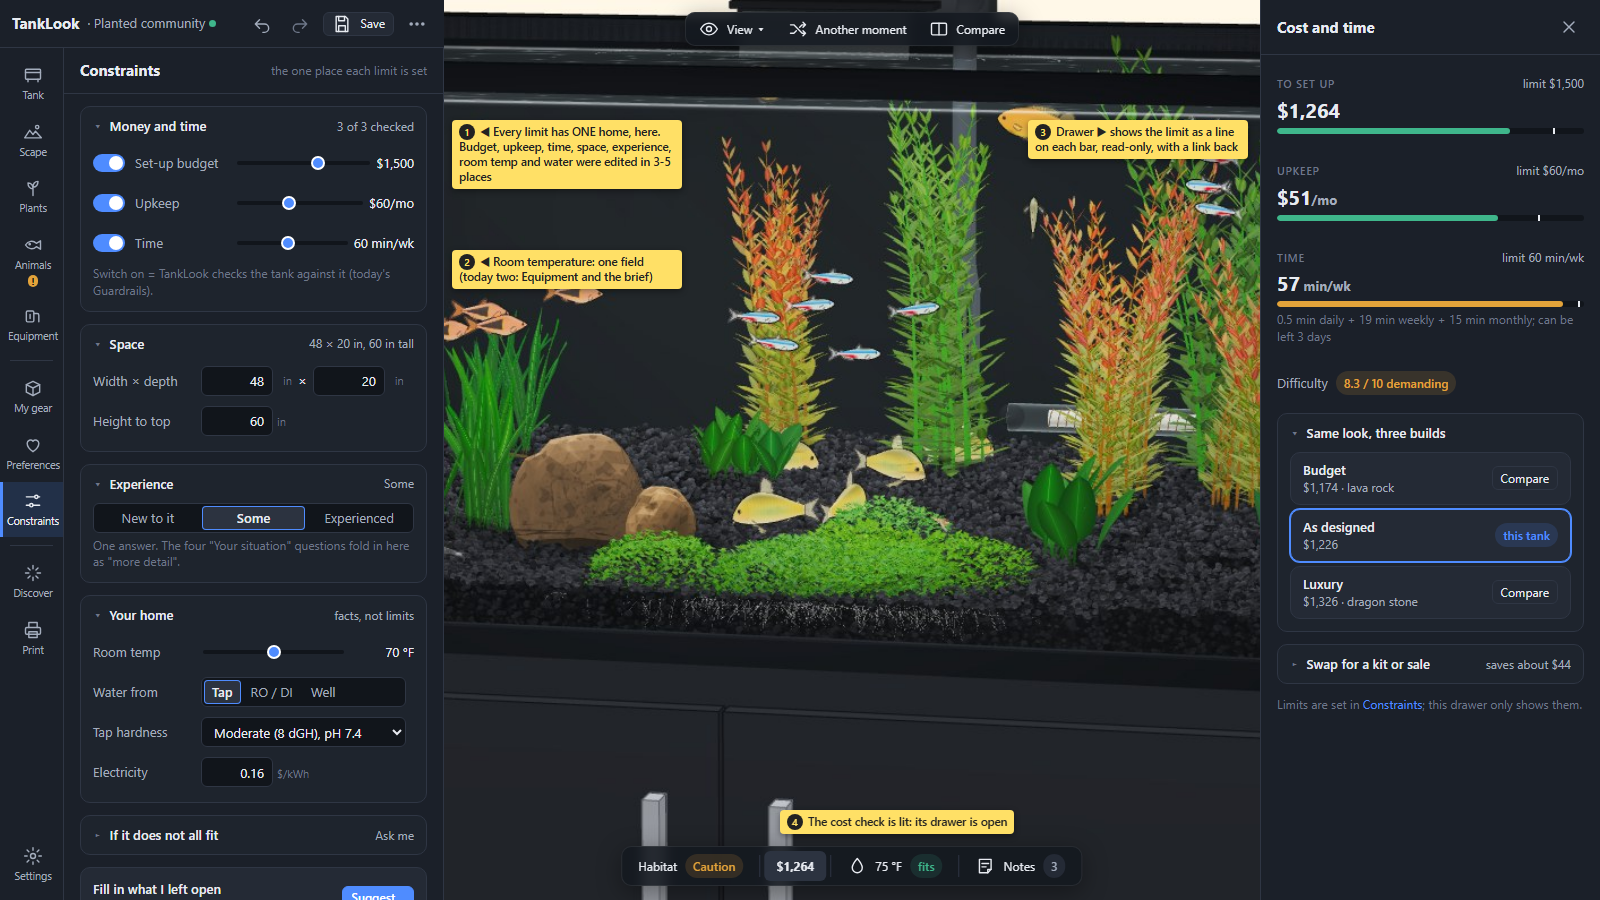
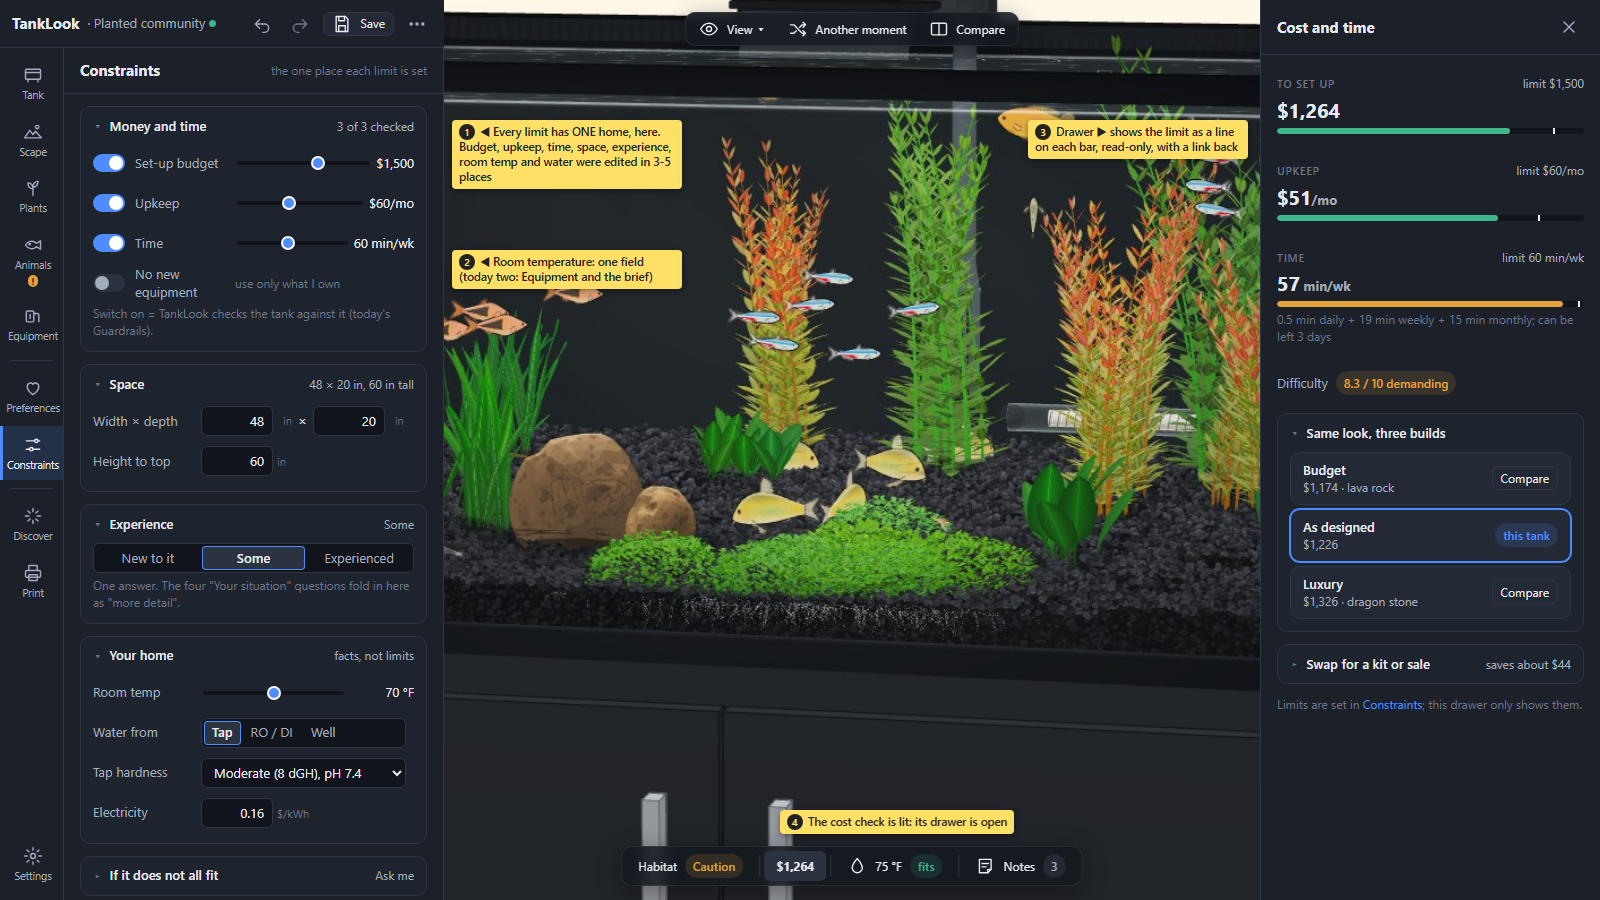
UI2: own / buy / lock gear model per Nathan 11-13 (no My gear tab)
Equipment gets a sub-menu per category with I own and Buy groups and an independent
'Use this one for sure' lock; Tank / Stand the same. No new equipment moves to Constraints;
Print gets an Already owned group. Doc 2/3/6/7/9 updated (P8 gear model step), rail is
9 sections + Settings, new shot 05-equipment-heater.png, 01/03/04 re-taken.

diff --git a/research/design/ui2/05-equipment-heater.html b/research/design/ui2/05-equipment-heater.html
@@ -1,0 +1,56 @@
+<!doctype html>
+<html lang="en"><head><meta charset="utf-8"><title>UI2 mockup: Equipment > Heater, own / buy / lock</title>
+<link rel="stylesheet" href="tokens.css">
+<style>
+  .app { display: grid; height: 100vh; grid-template-columns: var(--rail-w) 420px 1fr; grid-template-rows: var(--header-h) 1fr; grid-template-areas: "head head view" "rail panel view"; }
+  .app > header { grid-area: head; } .app > .rail { grid-area: rail; } .app > .panel { grid-area: panel; } .app > .viewer { grid-area: view; }
+  .cats { display: flex; gap: 6px; flex-wrap: wrap; }
+  .gear { display: grid; grid-template-columns: 44px minmax(0,1fr) auto; gap: var(--s2) var(--s3); align-items: center; padding: var(--s2) var(--s3); }
+  .gear .thumb { width: 44px; height: 36px; display: grid; place-items: center; color: #3a4150; }
+  .gear .acts { display: flex; gap: 4px; align-items: center; }
+  .lockbtn { height: var(--ctl-h-sm); padding: 0 var(--s2); border-radius: var(--r-pill); border: 1px solid var(--line); background: transparent; color: var(--text-3); display: inline-flex; align-items: center; gap: 4px; font-size: var(--fs-sm); }
+  .lockbtn .i { width: 14px; height: 14px; }
+  .lockbtn.on { background: var(--accent); border-color: var(--accent); color: #fff; font-weight: 600; }
+  .gh .n { color: var(--text-3); font-weight: 400; }
+</style></head>
+<body>
+<script src="icons.js"></script><script src="shell.js"></script>
+<div class="app" id="app"></div>
+<script>
+const lock = on => `<button class="lockbtn ${on ? 'on' : ''}" title="Use this one for sure">${I('lock')}${on ? 'For sure' : ''}</button>`;
+const g = (name, meta, o = {}) => `<div class="card gear ${o.inUse ? 'sel' : ''}">
+  <div class="thumb">${I('gear')}</div>
+  <div><div class="t">${name}</div><div class="m">${meta}</div>
+    <div style="display:flex;gap:4px;margin-top:4px">${o.owned ? '<span class="pill ok">Owned &middot; $0</span>' : ''}${o.inUse ? '<span class="pill accent">In use</span>' : ''}${o.warn ? `<span class="pill warn">${o.warn}</span>` : ''}</div></div>
+  <div class="acts">${o.inUse ? '' : '<button class="btn sm">Use</button>'}${lock(o.lock)}</div></div>`;
+document.getElementById('app').innerHTML = apphead() + rail('gear', {animals: '!'}) + `
+<section class="panel">
+  <div class="sec-head"><h2>Equipment</h2><select class="select" style="height:26px"><option>Mid planted</option></select><button class="btn sm ghost">${I('ideas')} Ideas</button></div>
+  <div class="sec-body">
+    <div class="cats"><span class="chip">Filter</span><span class="chip on">Heater</span><span class="chip">Light</span><span class="chip">CO2</span><span class="chip">Air</span><span class="chip">Ferts</span><span class="chip">More &#9662;</span></div>
+    <div class="hint">40 gal at 75 &deg;F, room 70 &deg;F (<span class="link">Constraints</span>): needs about 100 W.</div>
+    <div class="group open"><div class="gh">I own <span class="n">2</span><span class="sum">$0, the planner prefers these when they fit</span></div><div class="gb">
+      ${g('Eheim Jager 100 W', 'adjustable &middot; 11 in', {owned: 1, inUse: 1, lock: 1})}
+      ${g('Aqueon Pro 50 W', 'preset 78 &deg;F &middot; 9 in', {owned: 1, warn: 'too small for 40 gal'})}
+      <button class="btn sm ghost" style="justify-self:start">${I('plus')} Add one I own</button>
+    </div></div>
+    <div class="group open"><div class="gh">Buy <span class="n">14</span><span class="sum">fits 40 gal &middot; price &middot; power</span></div><div class="gb">
+      ${g('Fluval M 100 W', '$38 &middot; ~$1.20/mo power')}
+      ${g('Cobalt Neo-Therm 100 W', '$45 &middot; flat, shatterproof')}
+      ${g('Hygger titanium 100 W', '$26 &middot; external controller')}
+      <button class="btn sm ghost" style="justify-self:start">Show all 14</button>
+    </div></div>
+  </div>
+</section>
+<main class="viewer">
+  <div class="ov" style="top:12px;left:50%;transform:translateX(-50%)">${toolbar()}</div>
+  <div class="ov" style="bottom:14px;left:50%;transform:translateX(-50%)">${checkbar({full: 1})}</div>
+</main>`;
+</script>
+<div style="position:absolute;inset:0;pointer-events:none">
+  <div class="note" data-n="1" style="top:100px;left:492px;max-width:240px">&#9664; One sub-menu per category (Tank and Stand work the same way in the Tank section)</div>
+  <div class="note" data-n="2" style="top:200px;left:492px;max-width:240px">&#9664; I own: what you have ($0). Owning does not mean the plan uses it</div>
+  <div class="note" data-n="3" style="top:290px;left:492px;max-width:240px">&#9664; "For sure" lock, on any item, owned or not: Discover / Suggest must use it. Separate from "In use"</div>
+  <div class="note" data-n="4" style="top:470px;left:492px;max-width:240px">&#9664; Buy: catalogue products. Hidden when Constraints "No new equipment" is on</div>
+</div>
+</body></html>

diff --git a/research/design/ui2/04-constraints-and-cost.html b/research/design/ui2/04-constraints-and-cost.html
@@ -23,6 +23,7 @@ document.getElementById('app').innerHTML = apphead() + rail('limits', {animals: 
       ${lim(1, 'Set-up budget', '<input class="slider" type="range" value="62">', '$1,500')}
       ${lim(1, 'Upkeep', '<input class="slider" type="range" value="40">', '$60/mo')}
       ${lim(1, 'Time', '<input class="slider" type="range" value="45">', '60 min/wk')}
+      <div class="lim"><span class="toggle"></span><span class="lbl">No new equipment</span><span class="hint">use only what I own</span><span></span></div>
       <div class="hint">Switch on = TankLook checks the tank against it (today's Guardrails).</div>
     </div></div>
     <div class="group open"><div class="gh">Space <span class="sum">48 &times; 20 in, 60 in tall</span></div><div class="gb">

diff --git a/research/design/ui2/shell.js b/research/design/ui2/shell.js
@@ -2,7 +2,7 @@
 const I = (n, cls = 'i') => `<svg class="${cls}"><use href="#i-${n}"/></svg>`;
 const RAIL = [
   ['tank', 'Tank'], ['scape', 'Scape'], ['plants', 'Plants'], ['animals', 'Animals'], ['gear', 'Equipment'],
-  '-', ['owned', 'My gear'], ['prefs', 'Preferences'], ['limits', 'Constraints'], '-', ['ideas', 'Discover'], ['print', 'Print'],
+  '-', ['prefs', 'Preferences'], ['limits', 'Constraints'], '-', ['ideas', 'Discover'], ['print', 'Print'],
 ];
 function rail(active, badges = {}) {
   return `<nav class="rail">${RAIL.map(r => r === '-' ? '<div style="height:1px;background:var(--line);margin:6px 10px"></div>' :

diff --git a/research/design/ui2-screen-map.md b/research/design/ui2-screen-map.md
@@ -10,6 +10,7 @@ Design only, no app code. Built from `research/design/ui1-inventory.md` (UI1, bu
 | `research/screens/UI2/02-editor-phone.png` | Same at 390 x 844: tank on top, check strip, Animals as a bottom sheet, tab bar |
 | `research/screens/UI2/03-split-desktop.png` | Compare: two tanks, one shared control cluster over the seam, "Editing A / B / Both" in the panel, each tank its own check bar |
 | `research/screens/UI2/04-constraints-and-cost.png` | Constraints section open (the one home of every limit) with the Cost and time drawer open on the right |
+| `research/screens/UI2/05-equipment-heater.png` | Equipment > Heater: **I own** and **Buy** groups, one item locked "Use this one for sure" (Nathan 11-13) |
 
 ## 1. Who and what for
 
@@ -29,7 +30,7 @@ Ideas (Discover, Suggest) are not a job of their own: they are a faster way to d
 
 ## 2. Screen map
 
-**Summary.** One editor screen, always the same shape: **header** (name, Undo / Redo / Save, file menu) over a **rail** of section icons; one **panel** showing one section at a time; the **viewer** with one shared control cluster at the top middle and one **check bar** at the bottom (Habitat, Cost, Water, Notes); clicking a check opens a **drawer** on the right that pushes the view aside instead of covering the tank. Plus one Start screen, a few dialogs and one Print screen. Today's 8-9 menu sections + ~60 overlays become 10 sections, 4 drawers, 1 Start screen, 4 dialogs, 1 Print screen. Of UI1's 56 rows: 28 KEEP (most moved), 19 MERGE, 4 HIDE, 5 CUT.
+**Summary.** One editor screen, always the same shape: **header** (name, Undo / Redo / Save, file menu) over a **rail** of section icons; one **panel** showing one section at a time; the **viewer** with one shared control cluster at the top middle and one **check bar** at the bottom (Habitat, Cost, Water, Notes); clicking a check opens a **drawer** on the right that pushes the view aside instead of covering the tank. Plus one Start screen, a few dialogs and one Print screen. Today's 8-9 menu sections + ~60 overlays become 9 sections, 4 drawers, 1 Start screen, 4 dialogs, 1 Print screen. Of UI1's 56 rows: 27 KEEP (most moved), 20 MERGE, 4 HIDE, 5 CUT.
 
 ### 2a. The new screens
 
@@ -38,23 +39,22 @@ Ideas (Discover, Suggest) are not a job of their own: they are a faster way to d
 | **Start** | J1 | first visit; header ... > New | four doors: Blank tank (kind, then the tank picker in your room), Starters and kits (starters, deals and bundles as tabs), Open saved, From an animal I want |
 | **Editor** | all | after Start; resume | header + rail + panel + viewer + check bar + drawer |
 | Header | J5 | always (top of the panel column) | TankLook, project name (click to rename), saved dot, Undo, Redo, Save, `...` = New / Open / Save as / Share link / Download |
-| Rail | J2 | always, also when the panel is folded | Tank, Scape, Plants, Animals, Equipment / My gear, Preferences, Constraints / Discover, Print / Settings (bottom) |
-| Section **Tank** | J2 | rail | Tank model (picker opens docked in the panel, live in the room), shape and size, Sits on (floor / stand / my own furniture), Top and rim, Glass, Background, **Room** (wall, ceiling, person) |
+| Rail | J2 | always, also when the panel is folded | Tank, Scape, Plants, Animals, Equipment / Preferences, Constraints / Discover, Print / Settings (bottom): 9 sections + Settings |
+| Section **Tank** | J2 | rail | Tank model and Stand (each with **I own** / **Buy** groups and the "Use this one for sure" lock, as in Equipment; the Buy picker opens docked in the panel, live in the room), shape and size, Sits on (floor / stand / my own furniture), Top and rim, Glass, Background, **Room** (wall, ceiling, person) |
 | Section **Scape** | J2 | rail | Substrate (type, blend, brush), Terrain (slopes, corners), Hardscape and Decor library, placed pieces |
 | Section **Plants** | J2 | rail | library (grayed by light), placed plants, growth over time |
 | Section **Animals** | J2 | rail | search, filters ("Fits this tank" on by default in Guided), stocking list with counts, Water look (level, tint) |
-| Section **Equipment** | J2 | rail | preset ladder (Walstad ... high-tech), one row per gear kind (filter, heater, light, CO2, ...), Lighting details, Light map / PAR |
-| Section **My gear** | J2/J3 | rail; "I own one" on any gear row opens it at that item | what you already own (tank, stand, light, heater, ...), "No new equipment" |
+| Section **Equipment** | J2 | rail | preset ladder (Walstad ... high-tech) at the top; then one **sub-menu per category** (Filter, Heater, Light, CO2, Air, UV, ... ; saltwater adds its own). Each category: the item in use now, then two groups, **I own** (your items, add your own, $0) and **Buy** (catalogue products), and on every item an independent **Use this one for sure** lock. Light also holds Lighting details, Light map / PAR |
 | Section **Preferences** | J1/J2 | rail | looks you like (cards, browse looks), don't-want list (R26 split) |
-| Section **Constraints** | J3 | rail; every "limit" line elsewhere links here | Money and time, Space, Experience, Your home (room temp, water, electricity), If it does not all fit, "Fill in what I left open" (Suggest) |
+| Section **Constraints** | J3 | rail; every "limit" line elsewhere links here | Money and time (incl. **No new equipment**: a spending limit), Space, Experience, Your home (room temp, water, electricity), If it does not all fit, "Fill in what I left open" (Suggest) |
 | Section **Discover** | J1/J2 | rail; "Ideas for ..." button in each section header opens it scoped to that section | Finish my setup / fill this section / remix; preview in the viewer; Apply / Keep |
-| Section **Print** | J5 | rail | one page builder with presets: Shopping list, Setup sheet, Full report, Build plan; tick parts; Print / .txt / .csv |
+| Section **Print** | J5 | rail | one page builder with presets: Shopping list, Setup sheet, Full report, Build plan; tick parts; Print / .txt / .csv. The shopping list has an **Already owned** group ($0) apart from what to buy |
 | **Settings** | - | rail bottom | US / Metric, Rules (Guided / Sandbox), Graphics, Help, Scene data (JSON) |
 | Viewer cluster | J2/J4 | always, top middle | View (camera, show, viewpoint map, export PNG), Another moment, Compare / Views linked / End compare |
 | Check bar | J3 | always, bottom of each view | Habitat (verdict pill), Cost ($ set-up, $/mo, min/wk), Water (deg F, fits), Notes (count) |
 | Drawers | J3 | click a check; click an item in the tank | **Habitat check**, **Cost and time**, **Water**, **Notes**, **Selection** (selected animal / piece: numbers, sex, copies, delete). One open at a time. |
 | Dialogs | J1/J5 | as needed | Save as / Share, Replace this project?, Guardrail-off list (inside Constraints, not a dialog), Sump size (inside Equipment) |
-| Toasts | J2 | after an edit | price notice (edit lost a sale price, Undo), owned gear no longer fits (link to My gear) |
+| Toasts | J2 | after an edit | price notice (edit lost a sale price, Undo), owned gear no longer fits (link to that Equipment category) |
 
 ### 2b. Where each of today's surfaces goes (every UI1 row)
 
@@ -74,7 +74,7 @@ Ideas (Discover, Suggest) are not a job of their own: they are a faster way to d
 | 12 | Tank sizes / Sump size modal | MERGE | Sump: a row in Equipment; tank: picker #13 |
 | 13 | Choose a tank (docked picker) | KEEP | Tank section, docked in the panel, live preview |
 | 14 | Guardrails dialog (checks off) | MERGE | Constraints: each limit has its own on / off switch |
-| 15 | My equipment dialog | KEEP | becomes the **My gear** section (Nathan 11-05: "a totally separate existing-equipment menu") |
+| 15 | My equipment dialog | MERGE | into the **I own** group of each Equipment category (and Tank / Stand in the Tank section); "No new equipment" moves to Constraints. Nathan 11-13 replaced the 11-05 "separate menu" with this |
 | 16 | Setup sheet | MERGE | Print > Setup sheet preset |
 | 17 | Report | MERGE | Print > Full report preset |
 | 18 | Plan sheet / Build plan sheet | MERGE | Print > Build plan preset |
@@ -90,7 +90,7 @@ Ideas (Discover, Suggest) are not a job of their own: they are a faster way to d
 | 28 | Animals | KEEP | Animals section; selected-animal box moves to the Selection drawer |
 | 29 | Water (under Animals) | KEEP | Animals > Water look; water numbers live in the Water drawer |
 | 30 | Constraints and preferences | KEEP | two sections, Preferences and Constraints (R26) |
-| 31 | Equipment | KEEP | Equipment section; "Open My equipment" becomes the My gear rail door |
+| 31 | Equipment | KEEP | Equipment section with a sub-menu per category; each category's "I own one" tab becomes its **I own** group |
 | 32 | Lighting | MERGE | Equipment > Light row and its details; second "Total Power" control CUT (same field shown twice) |
 | 33 | Report section | MERGE | Print section |
 | 34 | Discover / Keep in section headers | MERGE | one "Ideas for ..." button per section header; Keep / lock stays on the item |
@@ -117,7 +117,7 @@ Ideas (Discover, Suggest) are not a job of their own: they are a faster way to d
 | 55 | Animal-first stocking (dormant) | HIDE | decision 4: Start > "From an animal I want" |
 | 56 | Sandbox flags bar | CUT | flag already off; rules switch is in Settings |
 
-Count: KEEP 28, MERGE 19, HIDE 4, CUT 5 = 56. The three dormant HIDE rows (51, 52, 55) get a door only if Nathan says yes (decision 4).
+Count: KEEP 27, MERGE 20, HIDE 4, CUT 5 = 56. The three dormant HIDE rows (51, 52, 55) get a door only if Nathan says yes (decision 4).
 
 ## 3. One home per setting
 
@@ -134,7 +134,9 @@ Rule (Nathan 2026-11-05, kept): **a shortcut may open the home; it may not hold 
 | Electricity $/kWh | cost panel | Constraints > Your home | Cost drawer |
 | Limit on / off (guardrails) | cost Guardrails, `#guardDlg` | Constraints: a switch on each limit | Cost drawer shows "not checked" |
 | Kind (fresh / salt) | New cards, Tank buttons, Suggest radios, Water link (4) | Start (first step) and Tank section (same field; Start is the first visit to it) | Water drawer, Animals filter |
-| Owned gear | 7 doors | My gear section | Equipment rows: "Owned" pill; "I own one" opens My gear at that item. "No new equipment" lives only in My gear |
+| Owned gear | 7 doors | the **I own** group of each category (Equipment; Tank / Stand in Tank) | Print "Already owned" group; Cost drawer counts it $0. Owning does not mean the plan uses it |
+| Use this one for sure (lock) | Discover Keep / lock, owned flags (mixed) | one lock per item, on the item's row, owned or not | the row shows it (lock icon); Discover / Suggest / the generator must use a locked item; an owned unlocked item is a free option they prefer when it fits |
+| No new equipment | Constraints `#cnNoNew`, My equipment `#ownNoNew` (2) | Constraints > Money and time | Equipment shows a note on the Buy groups while it is on |
 | Light power | two sliders 8 rows apart | Equipment > Light | - |
 | Look / style direction | quick prefs (2), hidden Style select | Preferences | Discover uses it; the scene's own materials stay hand edits in their sections (a different thing: what is built, not what you like) |
 | Tank size | picker, L / H / D, Suggest space, Set my space | Tank section (picker + size rows) | header name, Print |
@@ -186,13 +188,13 @@ One expand / collapse glyph (`▸` / `▾`) everywhere; one icon set (24 px stro
 
 **Tablet (700-1099 px):** rail + viewer; the panel opens over the viewer's left side as a sheet; drawer opens over the right.
 
-**Phone (< 700 px):** header (icons only), viewer on top (about 35 % height), a check strip under it (scrolls sideways), the open section as a bottom sheet (drag between half and full), tab bar: Tank, Scape, Plants, Animals, More (More = Equipment, My gear, Preferences, Constraints, Discover, Print, Settings). Drawers open as full sheets. Compare on phone: stacked A over B, one tank's check strip at a time.
+**Phone (< 700 px):** header (icons only), viewer on top (about 35 % height), a check strip under it (scrolls sideways), the open section as a bottom sheet (drag between half and full), tab bar: Tank, Scape, Plants, Animals, More (More = Equipment, Preferences, Constraints, Discover, Print, Settings). Drawers open as full sheets. Compare on phone: stacked A over B, one tank's check strip at a time.
 
 ## 7. Migration order
 
 The new shell lives beside the old one behind `?ui=2` (own `index2.html` entry, own `src/ui2/`, own stylesheet built from the tokens). Both use the same `Store`, `Viewer` and engine. Old shell untouched until the flip.
 
-**P. Pull logic out first (no visible change; each with tests, each a lane):**
+**P. Pull logic out first (no visible change; each with tests, each a lane; P8 added 11-13 for the own / buy / lock model):**
 
 | Step | Out of | Into | Size |
 |---|---|---|---|
@@ -200,6 +202,7 @@ The new shell lives beside the old one behind `?ui=2` (own `index2.html` entry, 
 | P2 Stocking edits and picker fit (`setCount`, `dropSpecies`, `fitsFor` / `animalGate` / `refineFits`, `removeMisfits`, `readout`) | `panels.ts` 771-1106 | `scene/stockEdit.ts` + `ui/logic/animalPicker.ts` | L |
 | P3 Item / plant edits and plant gate | `panels.ts` 1620-1950 | `scene/itemEdit.ts`, `ui/logic/plantGate.ts` | M |
 | P4 Gear choice application and conversions | `techMenu.ts` | `scene/techEdit.ts`; one `units.ts` for every `toF` / `fromUnits` / `fmtHeight` | L |
+| P8 Gear model: per category an owned list (in the brief), the item in use, and a "use for sure" lock per item; Discover / Suggest / generator read the lock (must use) and the owned list (preferred, $0). Folds `ownedGear.ts` `applyOwned` / `syncEquipment` and the owned flags on scene gear into it; old saves migrate | `ownedGear.ts`, `scene/tech`, Discover locks | `scene/gearOwn.ts` | M |
 | P5 One home per limit in the data: profile from LS `tanklook.demand` into the brief; room temp stored once; migrate old saves | `demandPanel.ts`, `scene/tech.ts`, brief | `scene/brief.ts` | M |
 | P6 Habitat helpers (`bar`, `topBy`, `tileState`, ...) | `fullnessTile.ts` | `ui/logic/habitat.ts` | S |
 | P7 File ops (library, open example / shared, save / save as) | `panels.ts` 168-494 | `ui/logic/files.ts` | M |
@@ -214,8 +217,8 @@ The old shell is switched to call these as they land, so both shells share one c
 | 2 | Start, open, save, share, resume | M | P7 |
 | 3 | Tank section + docked picker + Room | L | P1 |
 | 4 | Animals + Water look + Selection drawer | L | P2 |
-| 5 | Constraints, Preferences, My gear, Suggest | M | P5 |
-| 6 | Equipment + Lighting + light map | L | P4 |
+| 5 | Constraints, Preferences, Suggest | M | P5 |
+| 6 | Equipment (category sub-menus, I own / Buy, lock) + Lighting + light map | L | P4, P8 |
 | 7 | Scape + Plants + brush / group bars | L | P3 |
 | 8 | View, Settings (units, rules, graphics), Print | M | - |
 | 9 | Compare (split) | L | `sideStore` as is |
@@ -244,7 +247,8 @@ The old shell is switched to call these as they land, so both shells share one c
 | 7 | Add a DOM test environment (happy-dom) for the new shell, or keep node-only tests + screenshot proof per step? | Node-only + screenshots (keeps test runs light on this machine). |
 | 8 | Compare: one "Editing A / B / Both" switch in the panel instead of an Edit tick per tab (shot 03)? | Yes. |
 | 9 | Viewpoint map off by default (a switch in View)? | Yes. |
-| 10 | Order: engine pulls P1-P7 first, then shell steps 1-12; freeze old-shell UI requests from approval (§8)? | Yes. |
+| 10 | Order: engine pulls P1-P7 first, then shell steps 1-12 (P1-P8); freeze old-shell UI requests from approval (§8)? | Yes. |
 | 11 | R7, the Habitat check name: keep "Habitat check" in the new check bar? | Keep; the drawer title can carry the longer "Habitat check: is it good for the animals?". |
+| 12 | Own / buy / lock (Nathan 11-13, shot 05): "I own" and "Buy" groups per category, an independent "Use this one for sure" lock, no My gear tab, "No new equipment" in Constraints. Confirm the shot matches what you meant? | Yes (already his call; the shot is the check). |
 
 Lane note: HANDOFF.md not edited (brief: commit only this lane's files); the coordinator adds the dated line.
